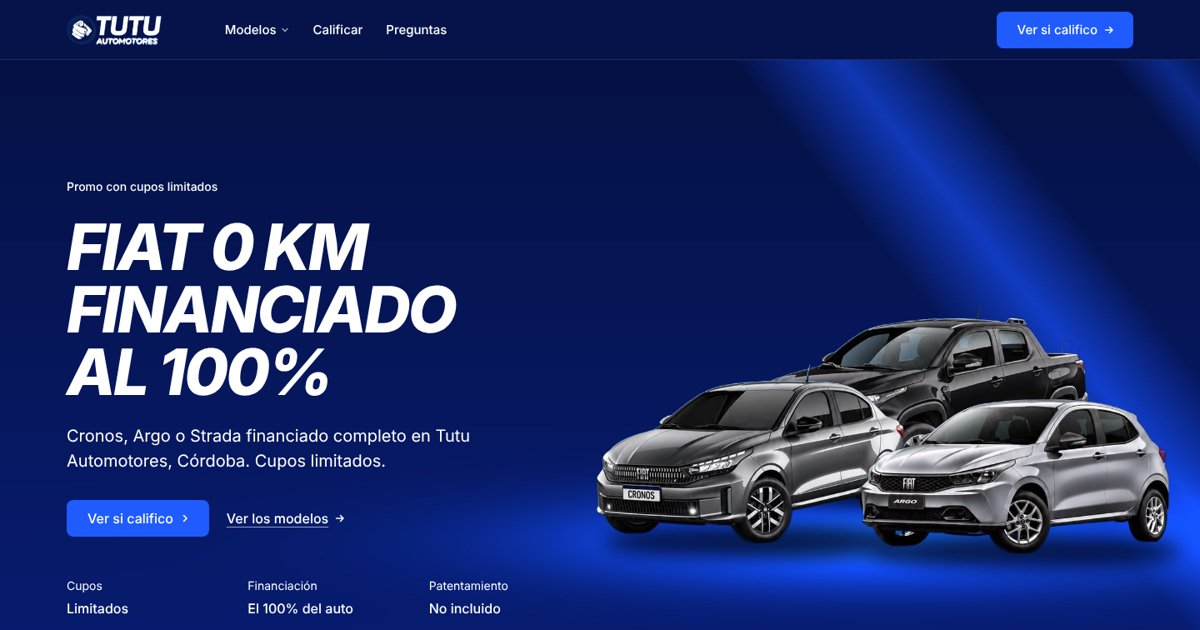
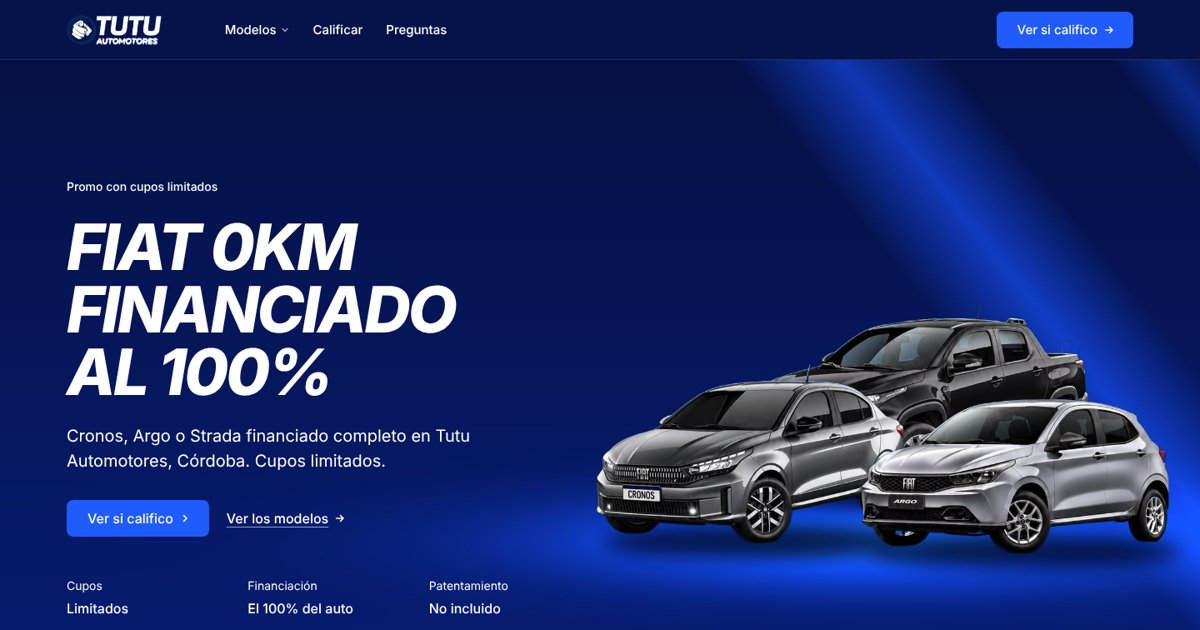
Modelos: autos enteros en las tarjetas; '0km' junto y títulos sin cortes con guion
Claude-Session: https://claude.ai/code/session_01KvzANLLSM9PW24VjUKAqJY

Changed region(s): [[0.185, 0.3317, 0.3083, 0.4524]]

diff --git a/index.html b/index.html
@@ -3,10 +3,10 @@
 <head>
 <meta charset="utf-8">
 <meta name="viewport" content="width=device-width, initial-scale=1, viewport-fit=cover">
-<title>Tutu Automotores: Fiat 0 km financiado al 100% en Córdoba</title>
+<title>Tutu Automotores: Fiat 0km financiado al 100% en Córdoba</title>
 <meta name="description" content="Fiat Cronos, Argo o Strada con el 100% financiado. Cupos limitados: cargá tu CUIT o DNI y fijate si calificás.">
 <meta property="og:type" content="website">
-<meta property="og:title" content="Fiat 0 km financiado al 100%, cupos limitados en Tutu Automotores">
+<meta property="og:title" content="Fiat 0km financiado al 100%, cupos limitados en Tutu Automotores">
 <meta property="og:description" content="Cronos, Argo o Strada financiados completos. Fijate si calificás con tu CUIT o DNI.">
 <meta property="og:image" content="share.jpg">
 <meta name="twitter:card" content="summary_large_image">
@@ -46,6 +46,7 @@
 <!-- page CSS: el estilo de las placas de Tutu (itálica pesada y ancha, como los flyers), las tarjetas de los
      modelos, el selector de auto del formulario y el panel de resultado -->
 <style>
+  :is(h1, h2, h3) { hyphens: manual; -webkit-hyphens: manual; }
   :is(h1, h2) { font-style: italic; font-weight: 800; font-stretch: 112%; letter-spacing: -0.02em; }
   .hero--photo h1 { text-transform: uppercase; line-height: .98; hyphens: manual; -webkit-hyphens: manual; overflow-wrap: normal; word-break: keep-all; }
   @media (max-width: 1023px) {
@@ -69,9 +70,9 @@
   @media (min-width: 1024px) { .hero--photo[data-calm="left"] > .wrap > .hero-text { justify-content: center; } }
 
   #modelos .panel { --p-h: 300px; background: radial-gradient(120% 90% at 50% 100%, #1f5bff 0%, #0b1f6e 62%); }
-  #modelos .panel img { position: absolute; inset: auto 6% 10% 6%; width: 88%; height: auto; object-fit: contain; }
+  #modelos .panel > img.frame__img { inset: 8% 6% 6% 6%; width: 88%; height: 86%; object-fit: contain; object-position: 50% 100%; }
   .menu-card .panel { --p-h: 200px; background: radial-gradient(120% 90% at 50% 100%, #1f5bff 0%, #0b1f6e 62%); }
-  .menu-card .panel img { position: absolute; inset: auto 8% 10% 8%; width: 84%; height: auto; }
+  .menu-card .panel > img { position: absolute; inset: 8% 8% 6% 8%; width: 84%; height: 86%; max-width: none; object-fit: contain; object-position: 50% 100%; }
 
   .cupos { display: flex; flex-direction: column; gap: var(--s-1); margin-top: var(--s-8); }
   .cupos__n { font: italic 800 var(--t-stat)/1 var(--font-display); font-stretch: 112%; letter-spacing: -0.03em; }
@@ -128,7 +129,7 @@
 </style>
 </head>
 <body>
-<!-- type: product (autos 0 km 100% financiados; Tutu Automotores, concesionaria en Córdoba)
+<!-- type: product (autos 0km 100% financiados; Tutu Automotores, concesionaria en Córdoba)
      deal: hero photo, nav nav-cards, close close-word, footer footer-columns, rhythm brand-band, buttons arrow,
      mark: el logo propio de Tutu (reemplaza ring); palette: los colores del cliente (azul y blanco de sus placas) via start.mjs brand
      moments: picture-develops en #modelos -->
@@ -174,11 +175,11 @@
 
 <main id="top">
   <section class="hero hero--photo" data-enter data-calm="left" data-box="none" data-tone="dark" aria-labelledby="hero-h">
-    <img class="hero__bg" src="img/hero-autos.jpg" alt="Fiat Cronos, Fiat Strada y Fiat Argo 0 km sobre fondo azul" style="--ly-pos: 100% 50%; --ly-pos-phone: 100% 72%" fetchpriority="high" data-source="client" data-subject="los tres Fiat de la promo">
+    <img class="hero__bg" src="img/hero-autos.jpg" alt="Fiat Cronos, Fiat Strada y Fiat Argo 0km sobre fondo azul" style="--ly-pos: 100% 50%; --ly-pos-phone: 100% 72%" fetchpriority="high" data-source="client" data-subject="los tres Fiat de la promo">
     <div class="wrap"><div class="hero-text">
       <div class="hero__text">
         <p class="hero-notice">Promo con cupos limitados</p>
-        <h1 id="hero-h">Fiat 0 km financiado al 100%</h1>
+        <h1 id="hero-h">Fiat 0km financiado al 100%</h1>
         <p class="hero__lead">Cronos, Argo o Strada financiado completo en Tutu Automotores, Córdoba. Cupos limitados.</p>
         <div class="btn-row"><a class="btn btn--primary" href="#califica">Ver si califico<svg class="m-arrow" viewBox="0 0 12 12" aria-hidden="true"><path class="m-arrow__stem" d="M1 6h8"/><path class="m-arrow__head" d="M4.5 2.5 8 6l-3.5 3.5"/></svg></a><a class="btn btn--secondary" href="#modelos">Ver los modelos</a></div>
       </div>
@@ -193,7 +194,7 @@
   <section class="section" id="modelos" aria-labelledby="modelos-h">
     <div class="wrap">
       <div class="section-head">
-        <h2 id="modelos-h">Tres Fiat 0 km para elegir. <span class="muted">Los tres entran en la promo de 100% financiado.</span></h2>
+        <h2 id="modelos-h">Tres Fiat 0km para elegir. <span class="muted">Los tres entran en la promo de 100% financiado.</span></h2>
       </div>
       <div class="grid">
         <a class="card card--open span-4" href="#califica" data-auto="cronos">
@@ -335,7 +336,7 @@
       <div class="grid">
         <div class="span-4 stack-4">
           <a class="nav__logo" href="#top" aria-label="Tutu Automotores, inicio"><img src="img/tutu-logo.png" alt="Tutu Automotores" width="452" height="143"></a>
-          <p class="footer__lede">Concesionaria de autos 0 km y usados en Córdoba, con varias sucursales.</p>
+          <p class="footer__lede">Concesionaria de autos 0km y usados en Córdoba, con varias sucursales.</p>
         </div>
         <div class="span-2 footer__col"><h3>Promo</h3><ul><li><a href="#modelos">Modelos</a></li><li><a href="#califica">Calificar</a></li></ul></div>
         <div class="span-2 footer__col"><h3>Ayuda</h3><ul><li><a href="#preguntas">Preguntas</a></li></ul></div>
